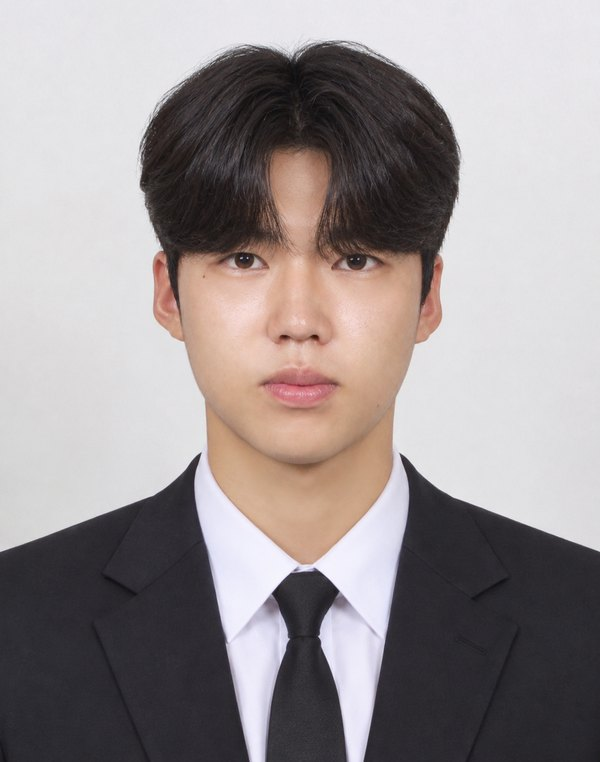
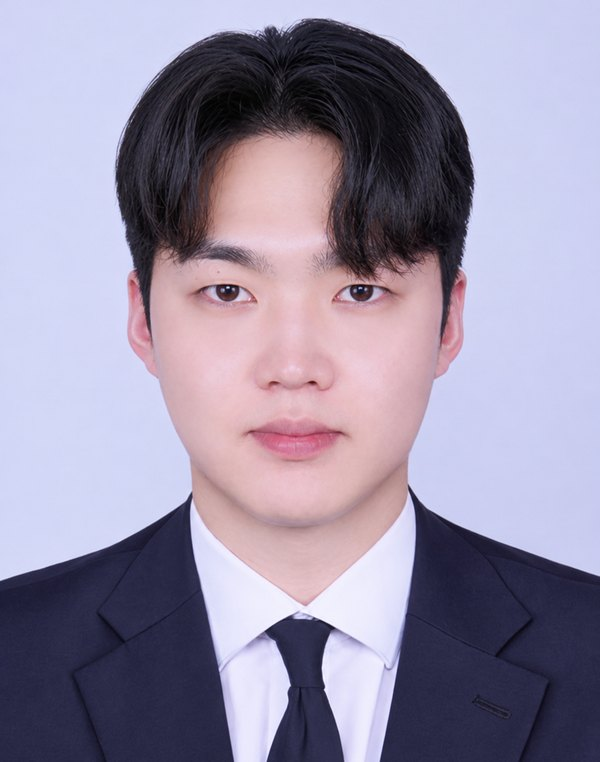
최문규 플래너 사진 교체 및 광고 심의필·등록번호 정보 추가
Claude-Session: https://claude.ai/code/session_01L6iRhwgsGQsf7ad4y1jsdc

diff --git a/index.html b/index.html
@@ -99,6 +99,7 @@ footer{background:#0A1A30;color:#A9B4C4;font-size:13px;line-height:1.8}
 footer .wrap{padding-top:40px;padding-bottom:40px;display:flex;flex-direction:column;gap:6px}
 footer b{color:#fff;font-size:15px}
 footer a{color:#A9B4C4}
+.legal{margin-top:8px;padding-top:14px;border-top:1px solid #1E3150;display:flex;flex-direction:column;gap:2px}
 .mbar{display:none}
 .cases{background:#fff}
 .cases .head{display:flex;flex-wrap:wrap;justify-content:space-between;align-items:flex-end;gap:16px}
@@ -276,6 +277,13 @@ footer .wrap{padding-bottom:100px;font-size:12px}
 <b class="serif">보험점검 서비스</b>
 <span>보험 플래너 최문규 · 상담 문의 <a href="tel:01090716822">010-9071-6822</a></span>
 <span>기존 보험계약을 해지하고 새로운 보험계약을 체결하는 과정에서 보험인수 거절, 보험료 인상, 보장내용 변경 등 불이익이 발생할 수 있습니다.</span>
+<div class="legal">
+<span>유퍼스트보험마케팅 (협회 등록번호 : 제2001048024호)</span>
+<span>주소 : 서울특별시 중구 소월로 10 (남대문로5가), 단암빌딩 6층</span>
+<span>보험설계사 최문규 (협회 등록번호 : 20250820001792)</span>
+<span>본 광고는 광고심의기준을 준수하였으며, 유효기간은 심의일로부터 1년입니다.</span>
+<span>준법감시인 심의필 제2611011호 (2026.11.04 ~ 2027.11.03)</span>
+</div>
 </div></footer>
 
 <div class="mbar">
